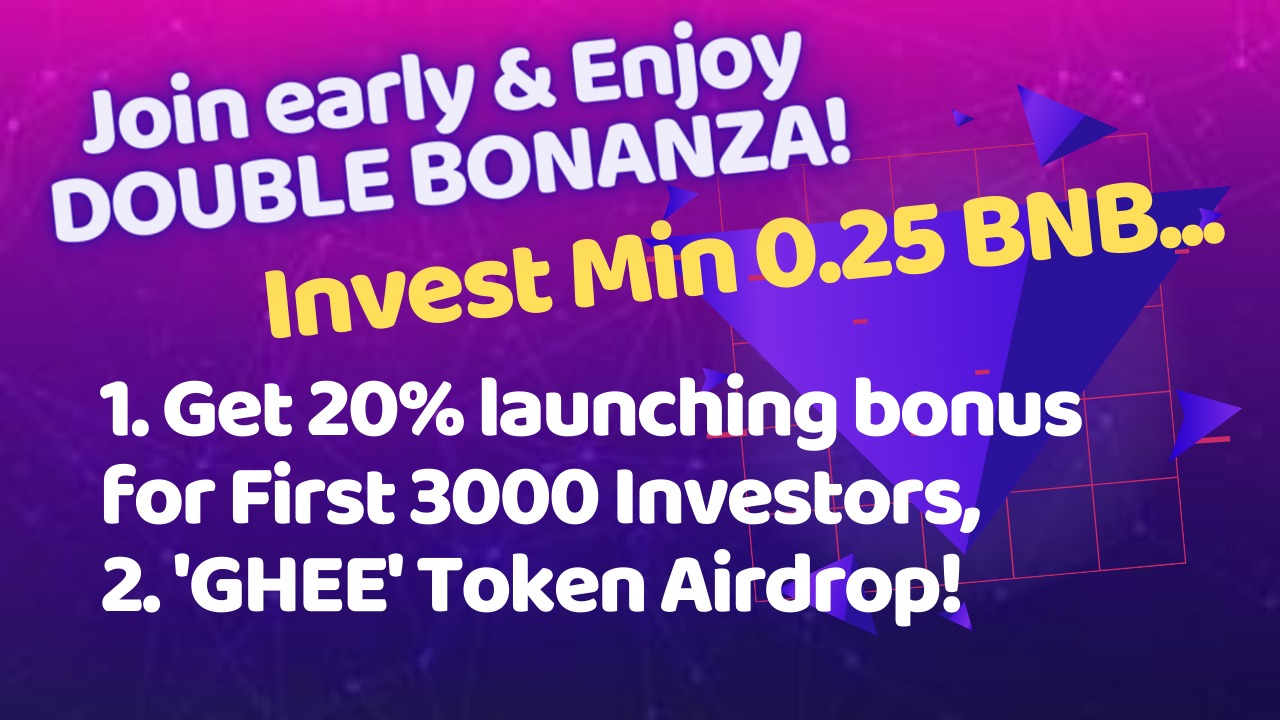
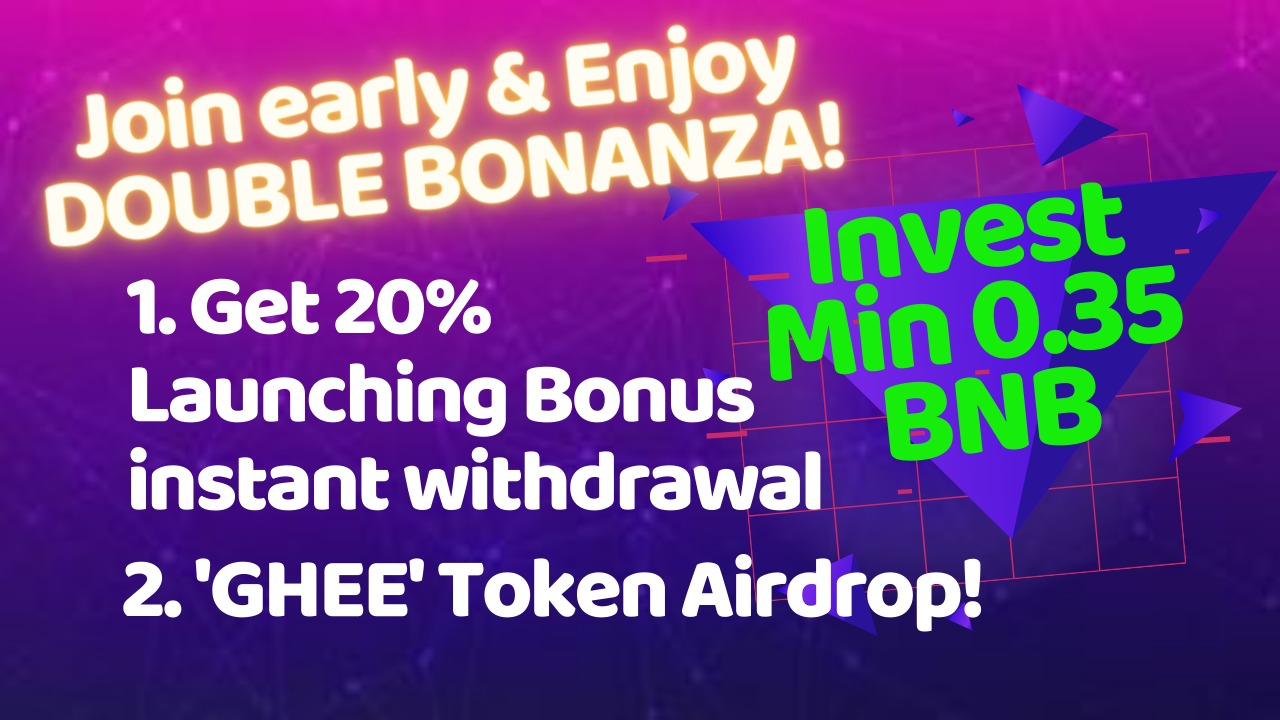
lates ui slide changes

diff --git a/src/components/Header/Header.js b/src/components/Header/Header.js
@@ -14,85 +14,101 @@ const Header = (props) => {
 		[props.account]
 	);
 	return (
-		<header>
-			<div classname="main-nav">
-				<div className="container-fluid px-0">
-					<nav className="navbar navbar-expand-lg navbar-dark container">
-						<a className="navbar-brand" href="#home">
-							<img src={Logo} alt="Binances Pro" className="d-inline-block align-top logo" />
-							<span className="site-title">BnbSmartFund</span>
-						</a>
-						<button
-							className="navbar-toggler"
-							type="button"
-							data-toggle="collapse"
-							data-target="#navbarSupportedContent"
-							aria-controls="navbarSupportedContent"
-							aria-expanded="false"
-							aria-label="Toggle navigation"
-						>
-							<span className="navbar-toggler-icon" />
-						</button>
+    <header>
+      <div classname="main-nav">
+        <div className="container-fluid px-0">
+          <nav className="navbar navbar-expand-lg navbar-dark container">
+            <a className="navbar-brand" href="#home">
+              <img
+                src={Logo}
+                alt="Binances Pro"
+                className="d-inline-block align-top logo"
+              />
+              <span className="site-title">BnbSmartFund</span>
+            </a>
+            <button
+              className="navbar-toggler"
+              type="button"
+              data-toggle="collapse"
+              data-target="#navbarSupportedContent"
+              aria-controls="navbarSupportedContent"
+              aria-expanded="false"
+              aria-label="Toggle navigation"
+            >
+              <span className="navbar-toggler-icon" />
+            </button>
 
-						<div className="collapse navbar-collapse main-nav-links" id="navbarSupportedContent">
-							<ul className="navbar-nav mr-auto ml-auto">
+            <div
+              className="collapse navbar-collapse main-nav-links"
+              id="navbarSupportedContent"
+            >
+              <ul className="navbar-nav mr-auto ml-auto">
+                <li className="nav-item">
+                  <a
+                    className="nav-link"
+                    href={
+                      props.contractData
+                        ? `https://bscscan.com/address/${props.contractData.contractAddress}`
+                        : "https://bscscan.com/address/"
+                    }
+                    target="_blank"
+                    rel="noreferrer"
+                  >
+                    Contract
+                  </a>
+                </li>
+                <li className="nav-item">
+                  <a className="nav-link" href="#faqs">
+                    FAQ
+                  </a>
+                </li>
 
-
-								<li className="nav-item">
-									<a className="nav-link" href={
-										props.contractData ? (
-											`https://bscscan.com/address/${props.contractData.contractAddress}`
-										) : (
-											'https://bscscan.com/address/'
-										)
-									}
-										target="_blank"
-										rel="noreferrer">
-										Contract
-									</a>
-								</li>
-								<li className="nav-item">
-									<a className="nav-link" href="#faqs">
-										FAQ
-									</a>
-								</li>
-
-								<li className="nav-item">
-									<a
-										className="nav-link "
-										href="https://t.me/trons_officalgroup"
-										role="button"
-										target="_blank"
-										rel="noreferrer"
-									>
-										Telegram
-									</a>
-								</li>
-								<li className="nav-item dropdown">
-									<a
-										className="nav-link "
-										href="https://www.facebook.com/groups/tronsoffical/"
-										target="_blank"
-										rel="noreferrer"
-										id="navbarDropdown"
-										role="button"
-									>
-										Facebook
-								</a>
-								</li>
-							</ul>
-							<div className="wallet text-center">
-								<span className="ywa-title">Your Wallet Address</span>
-								<span className="wallet-address">
-									<a href={address ? `https://bscscan.com/address/+ ${address}` : "https://bscscan.com/"} target="_blank" rel="noreferrer">{address ? address.slice(0, 5) + "..." : "loading.."}</a>
-								</span>
-							</div>
-						</div>
-					</nav>
-				</div>
-			</div>
-		</header>
-	);
+                <li className="nav-item">
+                  <a
+                    className="nav-link "
+                    href="https://t.me/bnbsmartfund1"
+                    role="button"
+                    target="_blank"
+                    rel="noreferrer"
+                  >
+                    Telegram
+                  </a>
+                </li>
+                <li className="nav-item dropdown">
+                  <a
+                    className="nav-link "
+                    href="https://www.facebook.com/groups/tronsoffical/"
+                    target="_blank"
+                    rel="noreferrer"
+                    id="navbarDropdown"
+                    role="button"
+                  >
+                    Facebook
+                  </a>
+                </li>
+              </ul>
+              <div className="wallet text-center">
+                <span className="ywa-title">Your Wallet Address</span>
+                <span className="wallet-address">
+                  <a
+                    href={
+                      address
+                        ? `https://bscscan.com/address/+ ${address}`
+                        : "https://bscscan.com/"
+                    }
+                    target="_blank"
+                    rel="noreferrer"
+                  >
+                    {address ? address.slice(0, 5) + "..." : "loading.."}
+                  </a>
+                </span>
+              </div>
+            </div>
+          </nav>
+        </div>
+      </div>
+    </header>
+  );
 };
 
 

diff --git a/src/components/Sections/FAQ.js b/src/components/Sections/FAQ.js
@@ -307,7 +307,7 @@ class FAQ extends Component{
                         project. YIELD FARMING, TOKEN SWAP, IDO Launch PAD, NFT
                         Auction place are coming under GHEE FINANCE. GHEE TOKEN
                         is the utility token for all these project which has
-                        multiple use cases. Anybody who invests minimum 0.25 BNB
+                        multiple use cases. Anybody who invests minimum 0.35 BNB
                         in https://www.bnbsmart.fund project can be eligible for
                         GHEE TOKEN AIRDROP.
                       </div>
@@ -338,7 +338,7 @@ class FAQ extends Component{
                         Yes, minimum deposit and withdrawal amount is 0.01BNB.
                         <br />
                         For the eligibility of Launching bonus and GHEE token
-                        airdrop you must invest minimum 0.25 BNB
+                        airdrop you must invest minimum 0.35 BNB
                       </div>
                     </div>
                   </div>

diff --git a/src/components/Sections/Section4.js b/src/components/Sections/Section4.js
@@ -27,7 +27,7 @@ class Section4 extends Component {
 									<li>GHEE Swap - Yield Farming And Swap </li>
 									<li>GHEE Gallery - NFT Marketplace</li>
 									<li>Staking Rewards And Liquidity Pool Rewards</li>
-									<li>Invest minimum 0.25 bnb get GHEE airdrop</li>
+									<li>Invest minimum 0.35 bnb get GHEE airdrop</li>
 								</ul>
 								<div style={{ marginLeft: '-1rem' }}>
 									<strong>The More Contract Balance The Less GHEE Token Created</strong>
